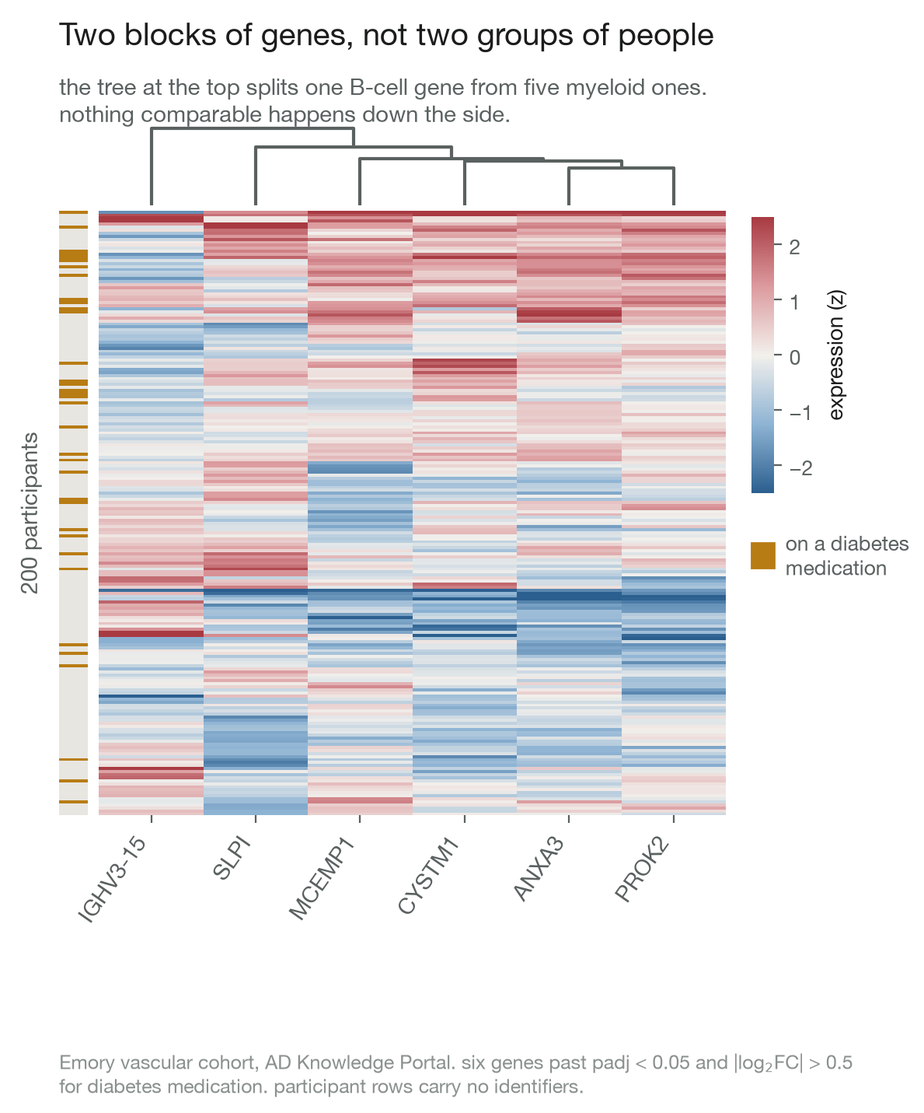
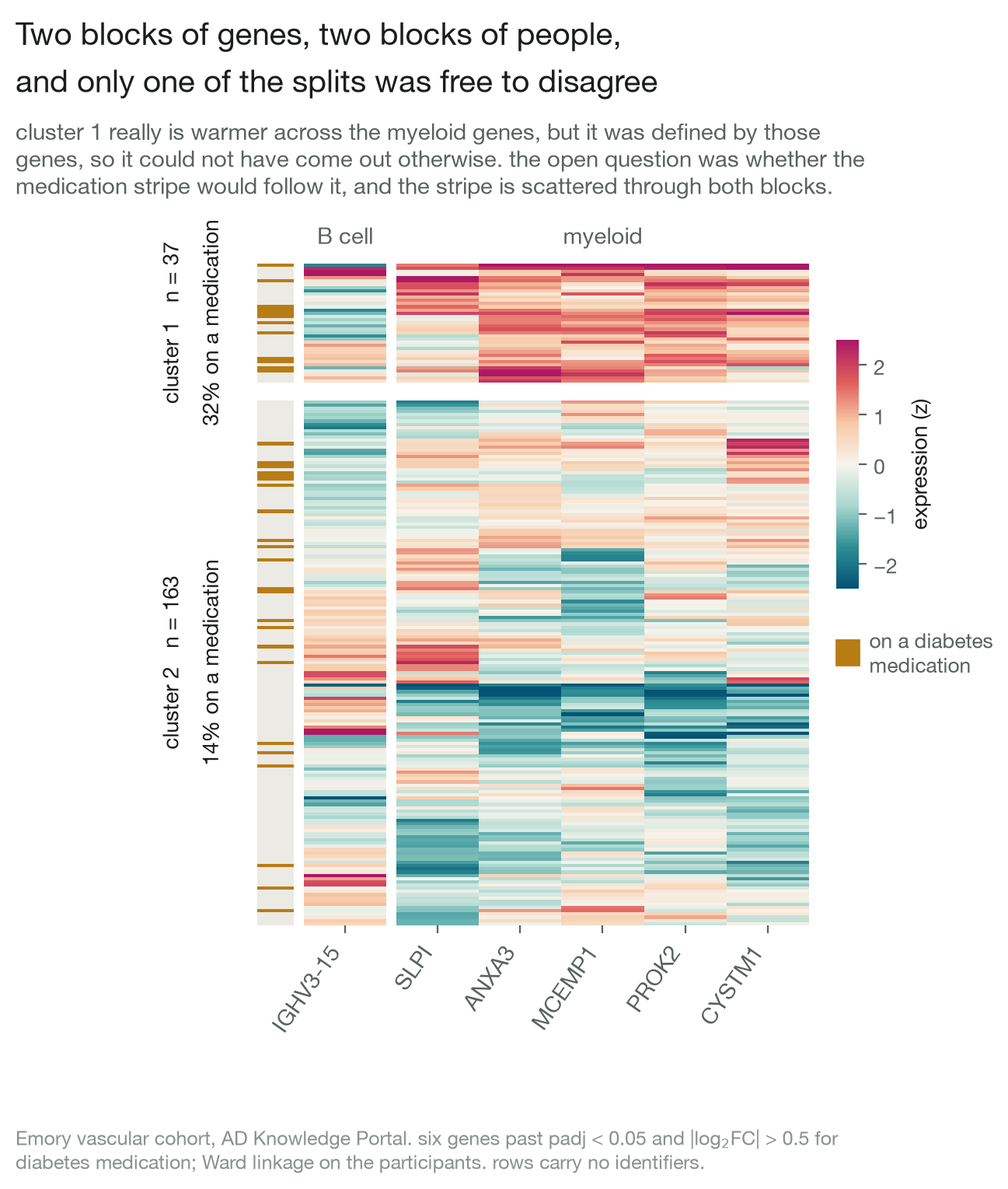
Emory: rebuild the heatmap, and put a number on the circularity
Heatmap: the shared figstyle DIV ramp, the same one the sweetspace
correlation heatmap uses, instead of RdYlBu_r. The two participant clusters
and the two gene blocks are now drawn as separate blocks with a gap and a
label, so the structure is visible without reading a dendrogram. Corrected
the subtitle: cluster 1 IS warmer across the myeloid genes, it just could not
have come out otherwise, having been defined by them.

Circularity, measured rather than asserted: 400 runs of pure noise, 200 fake
participants, a coin-flip label, then select six genes on that label ->
cluster -> cut in two -> Fisher test the same label. 80% of runs return
p < 0.05 and 70% reach the 0.015 this cohort produced. Selecting the six
genes at random instead returns 3%. The cohort's clustering p-value carries
no information.

diff --git a/projects/emory-vascular.html b/projects/emory-vascular.html
@@ -23,15 +23,15 @@
   <dl class="spec"><div><dt>skills</dt><dd>differential expression on a clinical cohort · hierarchical clustering and how to read a dendrogram · circular analysis · cell-composition confounding in bulk RNA · annotating a hit list back to cell type</dd></div><div><dt>tools</dt><dd><ul class="tags"><li>Python</li><li>PyDESeq2</li><li>scipy hierarchical clustering</li><li>scanpy</li><li>gseapy</li><li>UniProt REST</li><li>matplotlib</li></ul></dd></div><div><dt>data</dt><dd>Emory vascular ageing cohort via the AD Knowledge Portal: 200 adults with whole-blood RNA-seq, clinical assessment and a medication list · a public eight-sample senescence experiment, four control and four replicatively senescent, run through the same pipeline as a reference</dd></div><div><dt>status</dt><dd><span class="status status-finished">finished</span></dd></div></dl>
   
   <div class="row"><div class="margin-note">question</div><div class="row-body"><p>Vascular disease, diabetes and Alzheimer&#x27;s run together, and whole-blood RNA is the cheapest place to look for the thread. If the people on diabetes medication have a different blood transcriptome, is that vascular biology, or is it something duller?</p></div></div>
-  <div class="figs"><figure class="fig"><div class="panel"><a class="zoom" href="../assets/fig/emory/clusters.png"><img src="../assets/fig/emory/clusters.png" alt="the clustering, remade. the tree across the top splits the six genes into two blocks, one B-cell gene against five myeloid ones. the 200 participant rows underneath, ordered by their own tree, show no matching block. the stripe on the left marks who is on a diabetes medication." loading="lazy" decoding="async"></a></div><figcaption class="margin-note">the clustering, remade. the tree across the top splits the six genes into two blocks, one B-cell gene against five myeloid ones. the 200 participant rows underneath, ordered by their own tree, show no matching block. the stripe on the left marks who is on a diabetes medication.</figcaption></figure><figure class="fig"><div class="panel"><a class="zoom" href="../assets/fig/emory/separation.png"><img src="../assets/fig/emory/separation.png" alt="what that participant split is worth. cutting the tree in two does enrich for medication, 2.3-fold at Fisher p = 0.015, and still misses two thirds of the people on medication while two thirds of the enriched cluster is on nothing." loading="lazy" decoding="async"></a></div><figcaption class="margin-note">what that participant split is worth. cutting the tree in two does enrich for medication, 2.3-fold at Fisher p = 0.015, and still misses two thirds of the people on medication while two thirds of the enriched cluster is on nothing.</figcaption></figure><figure class="fig"><div class="panel"><a class="zoom" href="../assets/fig/emory/genes.png"><img src="../assets/fig/emory/genes.png" alt="the six genes with what each one is. five neutrophil and myeloid genes up, one B-cell immunoglobulin gene down, which is the shape of a change in blood cell proportions rather than a disease programme." loading="lazy" decoding="async"></a></div><figcaption class="margin-note">the six genes with what each one is. five neutrophil and myeloid genes up, one B-cell immunoglobulin gene down, which is the shape of a change in blood cell proportions rather than a disease programme.</figcaption></figure><figure class="fig"><div class="panel"><a class="zoom" href="../assets/fig/emory/immune-axis.png"><img src="../assets/fig/emory/immune-axis.png" alt="the check that matters. the six significant genes were five myeloid up and one B-cell down; running enrichment over all 13,994 genes, with nothing selected in advance, puts neutrophil granule products up and the B-cell compartment down." loading="lazy" decoding="async"></a></div><figcaption class="margin-note">the check that matters. the six significant genes were five myeloid up and one B-cell down; running enrichment over all 13,994 genes, with nothing selected in advance, puts neutrophil granule products up and the B-cell compartment down.</figcaption></figure><figure class="fig"><div class="panel"><a class="zoom" href="../assets/fig/emory/pathways.png"><img src="../assets/fig/emory/pathways.png" alt="the whole enrichment result, which is dominated by something else: protein synthesis up and nuclear RNA export down. in bulk blood that pattern usually reflects library composition or RNA quality, so it is read as a caution about the samples. the two antimicrobial sets are the part that speaks to the gene-level story." loading="lazy" decoding="async"></a></div><figcaption class="margin-note">the whole enrichment result, which is dominated by something else: protein synthesis up and nuclear RNA export down. in bulk blood that pattern usually reflects library composition or RNA quality, so it is read as a caution about the samples. the two antimicrobial sets are the part that speaks to the gene-level story.</figcaption></figure><figure class="fig"><div class="panel"><a class="zoom" href="../assets/fig/emory/waterfall-emory.png"><img src="../assets/fig/emory/waterfall-emory.png" alt="the strongest single set, drawn so the one comparison it is making is visible. top, the running enrichment score with the leading edge shaded and the peak marked. bottom, every gene ranked by its test statistic, filled red where it is higher on medication and blue where it is lower, with each set member as a tick above. the ticks bunch at the left, which is what enrichment means." loading="lazy" decoding="async"></a></div><figcaption class="margin-note">the strongest single set, drawn so the one comparison it is making is visible. top, the running enrichment score with the leading edge shaded and the peak marked. bottom, every gene ranked by its test statistic, filled red where it is higher on medication and blue where it is lower, with each set member as a tick above. the ticks bunch at the left, which is what enrichment means.</figcaption></figure><figure class="fig"><div class="panel"><a class="zoom" href="../assets/fig/emory/senescence-panel.png"><img src="../assets/fig/emory/senescence-panel.png" alt="the reference, from the notebook as saved. nine senescence genes across four control and four replicatively senescent samples, and the sample tree splits them perfectly. this is a different, public, eight-sample dataset, not the Emory cohort." loading="lazy" decoding="async"></a></div><figcaption class="margin-note">the reference, from the notebook as saved. nine senescence genes across four control and four replicatively senescent samples, and the sample tree splits them perfectly. this is a different, public, eight-sample dataset, not the Emory cohort.</figcaption></figure><figure class="fig"><div class="panel"><a class="zoom" href="../assets/fig/emory/volcano.png"><img src="../assets/fig/emory/volcano.png" alt="the volcano from that same reference dataset, with the senescence markers labelled: SERPINE1, CDKN2A, LMNB1 down, GDF15 and CCL5 up. saved notebook output." loading="lazy" decoding="async"></a></div><figcaption class="margin-note">the volcano from that same reference dataset, with the senescence markers labelled: SERPINE1, CDKN2A, LMNB1 down, GDF15 and CCL5 up. saved notebook output.</figcaption></figure><figure class="fig"><div class="panel"><a class="zoom" href="../assets/fig/emory/waterfall.png"><img src="../assets/fig/emory/waterfall.png" alt="the notebook&#x27;s original waterfall, kept as saved output. it is the same kind of plot as the one above but computed on the eight-sample reference dataset, not on Emory: gene-set enrichment for mitotic spindle organisation, strongly down in senescent cells at NES -3.18. shown because it is what the notebook actually had." loading="lazy" decoding="async"></a></div><figcaption class="margin-note">the notebook&#x27;s original waterfall, kept as saved output. it is the same kind of plot as the one above but computed on the eight-sample reference dataset, not on Emory: gene-set enrichment for mitotic spindle organisation, strongly down in senescent cells at NES -3.18. shown because it is what the notebook actually had.</figcaption></figure></div>
-  <div class="row"><div class="margin-note">what i did</div><div class="row-body"><ul><li>ran PyDESeq2 across the cohort with one design factor, whether the participant is on a diabetes medication, and kept the genes past padj &lt; 0.05 and |log2 fold change| &gt; 0.5. Six survived.</li><li>clustered those six genes and all 200 participants hierarchically, which is where the two blocks everyone remembers come from.</li><li>cut the participant tree in two and asked, with a Fisher exact test, whether the split sorts people by medication.</li><li>looked all six genes up in UniProt and asked which cell makes each one.</li><li>ran the same differential-expression, volcano and gene-set pipeline on a small public senescence experiment, as a reference for what a clean two-group separation looks like.</li><li>ranked all 13,994 expressed genes by their DESeq2 statistic and ran gene-set enrichment over 2,245 GO biological processes, which the original notebook only ever did on the other, eight-sample dataset.</li></ul></div></div>
+  <div class="figs"><figure class="fig"><div class="panel"><a class="zoom" href="../assets/fig/emory/clusters.png"><img src="../assets/fig/emory/clusters.png" alt="the clustering, rebuilt with the two participant blocks drawn apart. cluster 1 really is warmer across the myeloid genes, but it was defined by those genes, so it could not have come out otherwise. the open question was whether the medication stripe down the left would follow the split, and it is scattered through both blocks." loading="lazy" decoding="async"></a></div><figcaption class="margin-note">the clustering, rebuilt with the two participant blocks drawn apart. cluster 1 really is warmer across the myeloid genes, but it was defined by those genes, so it could not have come out otherwise. the open question was whether the medication stripe down the left would follow the split, and it is scattered through both blocks.</figcaption></figure><figure class="fig"><div class="panel"><a class="zoom" href="../assets/fig/emory/separation.png"><img src="../assets/fig/emory/separation.png" alt="what that participant split is worth. cutting the tree in two does enrich for medication, 2.3-fold at Fisher p = 0.015, and still misses two thirds of the people on medication while two thirds of the enriched cluster is on nothing." loading="lazy" decoding="async"></a></div><figcaption class="margin-note">what that participant split is worth. cutting the tree in two does enrich for medication, 2.3-fold at Fisher p = 0.015, and still misses two thirds of the people on medication while two thirds of the enriched cluster is on nothing.</figcaption></figure><figure class="fig"><div class="panel"><a class="zoom" href="../assets/fig/emory/circularity.png"><img src="../assets/fig/emory/circularity.png" alt="the same workflow run on data with nothing in it. 400 rounds of pure noise with a coin-flip label: select six genes on that label, cluster, cut the tree in two, test the same label. 80 percent of rounds come out significant. picking the six genes at random instead gives 3 percent, which is roughly what a correct test should give." loading="lazy" decoding="async"></a></div><figcaption class="margin-note">the same workflow run on data with nothing in it. 400 rounds of pure noise with a coin-flip label: select six genes on that label, cluster, cut the tree in two, test the same label. 80 percent of rounds come out significant. picking the six genes at random instead gives 3 percent, which is roughly what a correct test should give.</figcaption></figure><figure class="fig"><div class="panel"><a class="zoom" href="../assets/fig/emory/genes.png"><img src="../assets/fig/emory/genes.png" alt="the six genes with what each one is. five neutrophil and myeloid genes up, one B-cell immunoglobulin gene down, which is the shape of a change in blood cell proportions rather than a disease programme." loading="lazy" decoding="async"></a></div><figcaption class="margin-note">the six genes with what each one is. five neutrophil and myeloid genes up, one B-cell immunoglobulin gene down, which is the shape of a change in blood cell proportions rather than a disease programme.</figcaption></figure><figure class="fig"><div class="panel"><a class="zoom" href="../assets/fig/emory/immune-axis.png"><img src="../assets/fig/emory/immune-axis.png" alt="the check that matters. the six significant genes were five myeloid up and one B-cell down; running enrichment over all 13,994 genes, with nothing selected in advance, puts neutrophil granule products up and the B-cell compartment down." loading="lazy" decoding="async"></a></div><figcaption class="margin-note">the check that matters. the six significant genes were five myeloid up and one B-cell down; running enrichment over all 13,994 genes, with nothing selected in advance, puts neutrophil granule products up and the B-cell compartment down.</figcaption></figure><figure class="fig"><div class="panel"><a class="zoom" href="../assets/fig/emory/pathways.png"><img src="../assets/fig/emory/pathways.png" alt="the whole enrichment result, which is dominated by something else: protein synthesis up and nuclear RNA export down. in bulk blood that pattern usually reflects library composition or RNA quality, so it is read as a caution about the samples. the two antimicrobial sets are the part that speaks to the gene-level story." loading="lazy" decoding="async"></a></div><figcaption class="margin-note">the whole enrichment result, which is dominated by something else: protein synthesis up and nuclear RNA export down. in bulk blood that pattern usually reflects library composition or RNA quality, so it is read as a caution about the samples. the two antimicrobial sets are the part that speaks to the gene-level story.</figcaption></figure><figure class="fig"><div class="panel"><a class="zoom" href="../assets/fig/emory/waterfall-emory.png"><img src="../assets/fig/emory/waterfall-emory.png" alt="the strongest single set, drawn so the one comparison it is making is visible. top, the running enrichment score with the leading edge shaded and the peak marked. bottom, every gene ranked by its test statistic, filled red where it is higher on medication and blue where it is lower, with each set member as a tick above. the ticks bunch at the left, which is what enrichment means." loading="lazy" decoding="async"></a></div><figcaption class="margin-note">the strongest single set, drawn so the one comparison it is making is visible. top, the running enrichment score with the leading edge shaded and the peak marked. bottom, every gene ranked by its test statistic, filled red where it is higher on medication and blue where it is lower, with each set member as a tick above. the ticks bunch at the left, which is what enrichment means.</figcaption></figure><figure class="fig"><div class="panel"><a class="zoom" href="../assets/fig/emory/senescence-panel.png"><img src="../assets/fig/emory/senescence-panel.png" alt="the reference, from the notebook as saved. nine senescence genes across four control and four replicatively senescent samples, and the sample tree splits them perfectly. this is a different, public, eight-sample dataset, not the Emory cohort." loading="lazy" decoding="async"></a></div><figcaption class="margin-note">the reference, from the notebook as saved. nine senescence genes across four control and four replicatively senescent samples, and the sample tree splits them perfectly. this is a different, public, eight-sample dataset, not the Emory cohort.</figcaption></figure><figure class="fig"><div class="panel"><a class="zoom" href="../assets/fig/emory/volcano.png"><img src="../assets/fig/emory/volcano.png" alt="the volcano from that same reference dataset, with the senescence markers labelled: SERPINE1, CDKN2A, LMNB1 down, GDF15 and CCL5 up. saved notebook output." loading="lazy" decoding="async"></a></div><figcaption class="margin-note">the volcano from that same reference dataset, with the senescence markers labelled: SERPINE1, CDKN2A, LMNB1 down, GDF15 and CCL5 up. saved notebook output.</figcaption></figure><figure class="fig"><div class="panel"><a class="zoom" href="../assets/fig/emory/waterfall.png"><img src="../assets/fig/emory/waterfall.png" alt="the notebook&#x27;s original waterfall, kept as saved output. it is the same kind of plot as the one above but computed on the eight-sample reference dataset, not on Emory: gene-set enrichment for mitotic spindle organisation, strongly down in senescent cells at NES -3.18. shown because it is what the notebook actually had." loading="lazy" decoding="async"></a></div><figcaption class="margin-note">the notebook&#x27;s original waterfall, kept as saved output. it is the same kind of plot as the one above but computed on the eight-sample reference dataset, not on Emory: gene-set enrichment for mitotic spindle organisation, strongly down in senescent cells at NES -3.18. shown because it is what the notebook actually had.</figcaption></figure></div>
+  <div class="row"><div class="margin-note">what i did</div><div class="row-body"><ul><li>ran PyDESeq2 across the cohort with one design factor, whether the participant is on a diabetes medication, and kept the genes past padj &lt; 0.05 and |log2 fold change| &gt; 0.5. Six survived.</li><li>clustered those six genes and all 200 participants hierarchically, which is where the two blocks everyone remembers come from.</li><li>cut the participant tree in two and asked, with a Fisher exact test, whether the split sorts people by medication.</li><li>looked all six genes up in UniProt and asked which cell makes each one.</li><li>ran the same differential-expression, volcano and gene-set pipeline on a small public senescence experiment, as a reference for what a clean two-group separation looks like.</li><li>ranked all 13,994 expressed genes by their DESeq2 statistic and ran gene-set enrichment over 2,245 GO biological processes, which the original notebook only ever did on the other, eight-sample dataset.</li><li>tested the clustering workflow itself on data with nothing in it: 400 runs of pure noise, 200 fake participants, a label assigned by coin flip, then the same select-cluster-cut-test sequence.</li></ul></div></div>
   
   
-  <div class="row"><div class="margin-note">what came out</div><div class="row-body"><ul><li>the gene tree does split in two, but not the way the story wanted. One arm is a single B-cell immunoglobulin gene, IGHV3-15, going down. The other arm is five genes going up: SLPI, ANXA3, MCEMP1, PROK2 and CYSTM1.</li><li>every one of those five is a neutrophil or myeloid gene. SLPI and ANXA3 are neutrophil granule proteins, MCEMP1 is a myeloid activation marker, PROK2 is the neutrophil-derived factor also called Bv8. Up on the myeloid side, down on the B-cell side, is what a shift in blood cell proportions looks like, not what a tissue disease process looks like.</li><li>cutting the participant tree in two gives a 37-person cluster and a 163-person cluster. The small one is 32 percent on medication against 14 percent in the large one, a 2.3-fold enrichment at Fisher p = 0.015.</li><li>that significance is worth almost nothing. The cluster catches 12 of the 35 people on medication and 25 of its own 37 members are on nothing. As a classifier it is close to useless.</li><li>worse, the test is circular. The six genes were chosen because they differ by medication status, so clustering on them and then testing medication status is asking the data to confirm the selection. The honest version of this p-value needs a held-out gene set or a held-out cohort, and neither exists here.</li><li>the eight-sample senescence experiment, through the identical pipeline, splits its four control and four senescent samples perfectly on nine senescence genes. That contrast is the finding: the controlled experiment separates, the clinic cohort does not.</li><li>gene-set enrichment reproduces the cell-composition reading without being told to. Antimicrobial peptide response and antibacterial humoral response, which are neutrophil granule products, come out positively enriched at FDR 0.002 and 0.004. B cell activation and lymphocyte differentiation come out negatively enriched at FDR 0.031 and 0.044. That is the same myeloid-up, B-cell-down axis as the six genes, found a second way across the whole transcriptome with no gene selection in between.</li><li>it is not the strongest axis though. 116 of the 2,245 processes pass FDR &lt; 0.05, and the largest scores belong to protein synthesis going up, led by cytoplasmic translation at NES 2.88, against nuclear RNA export going down at NES -2.60. Ribosomal and RNA-handling genes are the first thing to move whenever bulk libraries differ in composition or RNA quality, so that axis is a caution about the samples rather than a finding about diabetes.</li></ul></div></div>
+  <div class="row"><div class="margin-note">what came out</div><div class="row-body"><ul><li>the gene tree does split in two, but not the way the story wanted. One arm is a single B-cell immunoglobulin gene, IGHV3-15, going down. The other arm is five genes going up: SLPI, ANXA3, MCEMP1, PROK2 and CYSTM1.</li><li>every one of those five is a neutrophil or myeloid gene. SLPI and ANXA3 are neutrophil granule proteins, MCEMP1 is a myeloid activation marker, PROK2 is the neutrophil-derived factor also called Bv8. Up on the myeloid side, down on the B-cell side, is what a shift in blood cell proportions looks like, not what a tissue disease process looks like.</li><li>cutting the participant tree in two gives a 37-person cluster and a 163-person cluster. The small one is 32 percent on medication against 14 percent in the large one, a 2.3-fold enrichment at Fisher p = 0.015.</li><li>that significance is worth almost nothing. The cluster catches 12 of the 35 people on medication and 25 of its own 37 members are on nothing. As a classifier it is close to useless.</li><li>worse, the test is circular. The six genes were chosen because they differ by medication status, so clustering on them and then testing medication status is asking the data to confirm the selection. The honest version of this p-value needs a held-out gene set or a held-out cohort, and neither exists here.</li><li>the eight-sample senescence experiment, through the identical pipeline, splits its four control and four senescent samples perfectly on nine senescence genes. That contrast is the finding: the controlled experiment separates, the clinic cohort does not.</li><li>gene-set enrichment reproduces the cell-composition reading without being told to. Antimicrobial peptide response and antibacterial humoral response, which are neutrophil granule products, come out positively enriched at FDR 0.002 and 0.004. B cell activation and lymphocyte differentiation come out negatively enriched at FDR 0.031 and 0.044. That is the same myeloid-up, B-cell-down axis as the six genes, found a second way across the whole transcriptome with no gene selection in between.</li><li>it is not the strongest axis though. 116 of the 2,245 processes pass FDR &lt; 0.05, and the largest scores belong to protein synthesis going up, led by cytoplasmic translation at NES 2.88, against nuclear RNA export going down at NES -2.60. Ribosomal and RNA-handling genes are the first thing to move whenever bulk libraries differ in composition or RNA quality, so that axis is a caution about the samples rather than a finding about diabetes.</li><li>the workflow manufactures significance. On pure noise, where the true association is zero by construction, picking six genes on the label and then testing that label against the cluster split returns p &lt; 0.05 in 80 percent of runs, and reaches Emory&#x27;s own p of 0.015 in 70 percent. Picking the six genes at random instead returns 3 percent, which is what a correct test looks like. The clustering p-value from this cohort carries no information at all; a coin flip would have produced it.</li></ul></div></div>
   <div class="row"><div class="margin-note">calls made</div><div class="row-body"><ul><li>diabetes medication rather than a diabetes diagnosis as the design factor, because the medication column was complete and the diagnosis column was not. It also makes the result directly comparable with the DiCAD proteomics on this site, which asks the mirror-image question.</li><li>Ward linkage for the participant tree. Average linkage, which is what the notebook used and what seaborn defaults to, puts 199 of the 200 participants in one cluster and leaves a single person alone, which is a true answer to a useless question.</li><li>reporting the classifier numbers next to the p-value. The enrichment is real and the p-value is correct arithmetic; both are misleading on their own.</li><li>leaving the senescence half in as a reference rather than dropping it. It is the only thing in the notebook that shows what a clean separation looks like, which is what makes the human result legible.</li><li>running the enrichment on this cohort rather than recolouring the notebook&#x27;s existing one. That figure came from the eight-sample senescence dataset and said nothing about Emory, so it could not corroborate or contradict anything on this page.</li></ul></div></div>
   <div class="row"><div class="margin-note">what broke</div><div class="row-body"><ul><li>the original clustering was run on genes selected by the same variable it was then read against, and no test was run on the split at all, only a look at the picture. Reading cluster structure off a heatmap built from pre-selected features is how an analysis convinces itself.</li><li>a second notebook called `emory_heatmaps_updated` was supposed to carry the figures forward. Its outputs are byte-identical copies of the first notebook&#x27;s, and the two medication-annotated clustermaps that mattered are missing from it entirely. The update dropped the only figures with the clinical annotation on them.</li></ul></div></div>
   <div class="row"><div class="margin-note">what i tried</div><div class="row-body"><p>the point of the analysis was to find a vascular thread between diabetes and Alzheimer&#x27;s biology, and for a while the two blocks in the heatmap looked like it. Annotating the six genes was what ended that reading: once five of them turn out to be neutrophil genes, the signature has a much more boring and much more likely explanation, and the interesting question moves to why nobody checks that first.</p></div></div>
-  <div class="row"><div class="margin-note">so what</div><div class="row-body"><ul><li>a bulk-blood signature is a weighted average over cell types before it is anything else. Whenever a hit list reads as neutrophil granule proteins, the first hypothesis is that the groups differ in neutrophil fraction, and the differential expression is a complete blood count in an expensive disguise.</li><li>that is not a nuisance to be removed here, it is a real and known association: raised neutrophil-to-lymphocyte ratio tracks with diabetes and vascular disease. The error is only in calling it a transcriptional programme.</li><li>the cell-composition hypothesis earns its keep here because two independent routes agree. Six hand-picked genes and an unsupervised scan of 13,994 say the same thing about which cells are present. A hypothesis that only one of those supports is a guess.</li><li>the methodological trap is sharper than the biology. Selecting features on a label and then testing that label with clustering will produce a significant result on data with no signal at all, and it produced one here. Any clustering p-value needs to say what was held out.</li><li>and a dendrogram will always draw two clusters. Whether they mean anything is a separate question with a separate test, which is the one step this analysis did not originally take.</li></ul></div></div>
+  <div class="row"><div class="margin-note">so what</div><div class="row-body"><ul><li>a bulk-blood signature is a weighted average over cell types before it is anything else. Whenever a hit list reads as neutrophil granule proteins, the first hypothesis is that the groups differ in neutrophil fraction, and the differential expression is a complete blood count in an expensive disguise.</li><li>that is not a nuisance to be removed here, it is a real and known association: raised neutrophil-to-lymphocyte ratio tracks with diabetes and vascular disease. The error is only in calling it a transcriptional programme.</li><li>the cell-composition hypothesis earns its keep here because two independent routes agree. Six hand-picked genes and an unsupervised scan of 13,994 say the same thing about which cells are present. A hypothesis that only one of those supports is a guess.</li><li>and a dendrogram will always draw two clusters. Whether they mean anything is a separate question with a separate test, and the obvious test is the wrong one: 400 runs of noise show the select-then-test sequence calling nothing significant four times in five. Any clustering p-value needs to say what was held out, and if the answer is nothing, the number should not be reported.</li><li>and a dendrogram will always draw two clusters. Whether they mean anything is a separate question with a separate test, which is the one step this analysis did not originally take.</li></ul></div></div>
   <div class="row"><div class="margin-note">not shown</div><div class="row-body"><ul><li>cell-type deconvolution. Two separate analyses now point at blood cell proportions, and neither measures them. Estimating neutrophil and lymphocyte fractions from the same bulk counts and adding them to the model is the test that would settle it. Not done.</li><li>the senescence half cannot be re-run. Its count table and the senescence gene list it used are both gone from disk, so those three figures are the saved notebook outputs as they were, not regenerated.</li><li>cognitive and vascular outcomes. The cohort carries them. Nothing here is linked to them yet.</li><li>no participant-level data. The heatmap rows carry no identifiers and every other number on this page is an aggregate.</li></ul></div></div>
   <section class="ack"><span class="margin-note">data use</span><p>Data used here were obtained from the AD Knowledge Portal (adknowledgeportal.synapse.org). The results published here are in whole or in part based on data obtained from the AD Knowledge Portal. The author thanks the study investigators and participants.</p></section>
 </main>

diff --git a/index.html b/index.html
@@ -194,7 +194,7 @@
     <ul class="tags"><li>Python</li><li>pandas</li><li>statsmodels</li><li>UniProt REST</li></ul>
   </div>
 </a><a class="tile" href="projects/emory-vascular.html">
-  <div class="panel"><img src="assets/fig/emory/clusters.png" alt="the clustering, remade. the tree across the top splits the six genes into two blocks, one B-cell gene against five myeloid ones. the 200 participant rows underneath, ordered by their own tree, show no matching block. the stripe on the left marks who is on a diabetes medication." loading="lazy" decoding="async"></div>
+  <div class="panel"><img src="assets/fig/emory/clusters.png" alt="the clustering, rebuilt with the two participant blocks drawn apart. cluster 1 really is warmer across the myeloid genes, but it was defined by those genes, so it could not have come out otherwise. the open question was whether the medication stripe down the left would follow the split, and it is scattered through both blocks." loading="lazy" decoding="async"></div>
   <div class="tile-body">
     <div class="tile-top"><h3>What a blood signature of diabetes medication is actually made of</h3><span class="status status-finished">finished</span></div>
     <p class="skills">differential expression on a clinical cohort · hierarchical clustering and how to read a dendrogram · circular analysis · cell-composition confounding in bulk RNA</p>

diff --git a/scripts/build_emory_clusters.py b/scripts/build_emory_clusters.py
@@ -1,0 +1,100 @@
+"""The Emory clustermap, rebuilt so the groups are visually separate.
+
+Changes from the seaborn original and from my first remake:
+  - the shared figstyle DIV ramp (teal / cream / magenta), the same one the
+    sweetspace correlation heatmap uses, instead of RdYlBu_r or a custom blue-red
+  - the two participant clusters drawn as two blocks with a real gap and a label,
+    instead of one continuous panel you have to read a dendrogram to parse
+  - the two gene blocks likewise split, so the B-cell gene is visibly apart
+"""
+import json, numpy as np, pandas as pd
+import matplotlib; matplotlib.use("Agg")
+import matplotlib.pyplot as plt
+from matplotlib.colors import LinearSegmentedColormap
+from matplotlib.patches import Rectangle
+from scipy.cluster.hierarchy import linkage, dendrogram, fcluster
+
+D   = "/Users/dominiero/bioinfo/Emory_Vascular/"
+OUT = "/Users/dominiero/Documents/GitHub/dom-martinelli.github.io/assets/fig/emory/"
+HUE  = ["#3D7BB8", "#C4545C", "#00918A", "#B87C14", "#7B62A8"]
+INK, SOFT, FAINT, GRID = "#1A1D1C", "#5A6160", "#8A918D", "#E4E7E4"
+# figstyle's shared diverging ramp, as used by the sweetspace heatmap
+DIV = LinearSegmentedColormap.from_list(
+    "div", ["#045275", "#2F8F95", "#A9D8D0", "#F7F4EC", "#F7C9A6", "#E05C5C", "#AB1866"])
+plt.rcParams.update({
+    "font.size": 11, "axes.labelsize": 11, "xtick.labelsize": 10.5, "ytick.labelsize": 10.5,
+    "font.family": "sans-serif", "font.sans-serif": ["Helvetica Neue", "Helvetica", "Arial"],
+    "axes.edgecolor": FAINT, "axes.linewidth": 0.8, "text.color": INK,
+    "axes.labelcolor": INK, "xtick.color": SOFT, "ytick.color": SOFT,
+    "figure.facecolor": "white", "savefig.facecolor": "white", "savefig.dpi": 200})
+
+SYM = {"ENSG00000211943":"IGHV3-15","ENSG00000120306":"CYSTM1","ENSG00000163421":"PROK2",
+       "ENSG00000124107":"SLPI","ENSG00000138772":"ANXA3","ENSG00000183019":"MCEMP1"}
+g = pd.read_csv(D+"DESeq2_sigs.csv", index_col=0); g.index = [SYM[i] for i in g.index]
+md = pd.read_csv(D+"Clinical/Modified_Emory_Clinical_Data.csv")
+md = md[md.individualID.isin(g.columns)].set_index("individualID")
+md = md[~md.index.duplicated()]
+cols = [c for c in g.columns if c in md.index]
+g, md = g[cols], md.loc[cols]
+dm = md["diabeticmed"].astype(int)
+X = g.T; Z = (X - X.mean()) / X.std()
+
+Ls = linkage(Z, method="ward", metric="euclidean")
+ks = fcluster(Ls, 2, criterion="maxclust")
+leaf = dendrogram(Ls, no_plot=True)["leaves"]
+# keep dendrogram order, but split into the two clusters
+blocks = [[i for i in leaf if ks[i] == k] for k in (1, 2)]
+blocks.sort(key=len)                                  # small block on top
+GENES = [["IGHV3-15"], ["SLPI", "ANXA3", "MCEMP1", "PROK2", "CYSTM1"]]
+
+fig = plt.figure(figsize=(6.9, 7.6))
+gs = fig.add_gridspec(2, 3, height_ratios=[len(blocks[0]), len(blocks[1])],
+                      width_ratios=[0.45, 1, 5], hspace=0.055, wspace=0.055,
+                      left=0.26, right=0.775, top=0.775, bottom=0.215)
+VM = 2.5
+for bi, rows in enumerate(blocks):
+    sub = Z.iloc[rows]
+    ax_s = fig.add_subplot(gs[bi, 0])
+    ax_s.imshow(dm.iloc[rows].values.reshape(-1, 1), aspect="auto", vmin=0, vmax=1,
+                interpolation="nearest",
+                cmap=LinearSegmentedColormap.from_list("s", ["#ECEAE4", HUE[3]]))
+    ax_s.set_xticks([]); ax_s.set_yticks([])
+    for sp in ax_s.spines.values(): sp.set_visible(False)
+    rate = dm.iloc[rows].mean()
+    ax_s.set_ylabel(f"cluster {bi+1}   n = {len(rows)}\n{rate:.0%} on a medication",
+                    fontsize=10, color=INK, labelpad=12, linespacing=1.6)
+    for gi, genes in enumerate(GENES):
+        ax = fig.add_subplot(gs[bi, gi + 1])
+        im = ax.imshow(sub[genes].values, aspect="auto", cmap=DIV, vmin=-VM, vmax=VM,
+                       interpolation="nearest")
+        ax.set_yticks([])
+        for sp in ax.spines.values(): sp.set_visible(False)
+        if bi == len(blocks) - 1:
+            ax.set_xticks(range(len(genes)))
+            ax.set_xticklabels(genes, rotation=55, ha="right")
+        else:
+            ax.set_xticks([])
+            ax.set_title("B cell" if gi == 0 else "myeloid", fontsize=10.5,
+                         color=SOFT, pad=9)
+
+cax = fig.add_axes([0.80, 0.50, 0.021, 0.21])
+cb = fig.colorbar(im, cax=cax); cb.set_label("expression (z)", fontsize=10)
+cb.outline.set_visible(False); cb.ax.tick_params(labelsize=9.5)
+fig.add_artist(Rectangle((0.80, 0.435), 0.021, 0.021, color=HUE[3], transform=fig.transFigure))
+fig.text(0.831, 0.4455, "on a diabetes\nmedication", fontsize=9.5, color=SOFT, va="center")
+
+fig.text(0.035, 0.985, "Two blocks of genes, two blocks of people,", fontsize=14.5, va="top")
+fig.text(0.035, 0.945, "and only one of the splits was free to disagree", fontsize=14.5, va="top")
+fig.text(0.035, 0.898,
+         "cluster 1 really is warmer across the myeloid genes, but it was defined by those\n"
+         "genes, so it could not have come out otherwise. the open question was whether the\n"
+         "medication stripe would follow it, and the stripe is scattered through both blocks.",
+         fontsize=10.5, color=SOFT, va="top")
+fig.text(0.035, 0.005,
+         "Emory vascular cohort, AD Knowledge Portal. six genes past padj < 0.05 and "
+         "|log$_2$FC| > 0.5 for\ndiabetes medication; Ward linkage on the participants. "
+         "rows carry no identifiers.",
+         fontsize=9, color=FAINT, va="bottom")
+fig.savefig(OUT + "clusters.png", bbox_inches="tight")
+print("cluster sizes", [len(b) for b in blocks],
+      "rates", [round(dm.iloc[b].mean(), 3) for b in blocks])

diff --git a/scripts/build_emory_circularity.py b/scripts/build_emory_circularity.py
@@ -1,0 +1,83 @@
+"""Does the clustermap workflow manufacture significance on pure noise?
+
+Emory's shape: 200 participants, 17.5% on a medication, ~14,000 genes.
+Here the label is assigned at random and the expression is pure noise, so the
+true answer is always "no association". Then run the standard workflow:
+  select genes that differ by the label  ->  cluster participants on those genes
+  ->  cut the tree in two  ->  Fisher test the cut against the same label.
+"""
+import numpy as np
+from scipy.cluster.hierarchy import linkage, fcluster
+from scipy.stats import ttest_ind, fisher_exact
+import pandas as pd
+
+rng = np.random.default_rng(7)
+N, G, RATE, TOPK, REPS = 200, 2000, 0.175, 6, 400
+hon, circ = [], []
+for _ in range(REPS):
+    X = rng.standard_normal((N, G))             # pure noise, no structure at all
+    y = (rng.random(N) < RATE).astype(int)      # label unrelated to X
+    t, p = ttest_ind(X[y == 1], X[y == 0], axis=0)
+    sel = np.argsort(p)[:TOPK]                  # the six "significant" genes
+
+    Z = (X[:, sel] - X[:, sel].mean(0)) / X[:, sel].std(0)
+    k = fcluster(linkage(Z, "ward"), 2, criterion="maxclust")
+    tab = pd.crosstab(k, y).values
+    if tab.shape == (2, 2):
+        circ.append(fisher_exact(tab)[1])
+
+    # the honest version: cluster on genes chosen without looking at the label
+    hon_sel = rng.choice(G, TOPK, replace=False)
+    Zh = (X[:, hon_sel] - X[:, hon_sel].mean(0)) / X[:, hon_sel].std(0)
+    kh = fcluster(linkage(Zh, "ward"), 2, criterion="maxclust")
+    tabh = pd.crosstab(kh, y).values
+    if tabh.shape == (2, 2):
+        hon.append(fisher_exact(tabh)[1])
+
+circ, hon = np.array(circ), np.array(hon)
+print(f"pure noise, {REPS} runs, true association is zero by construction\n")
+print(f"  select on the label, then test it : {(circ<.05).mean():6.1%} of runs give p < 0.05")
+print(f"  select genes at random instead    : {(hon<.05).mean():6.1%} of runs give p < 0.05")
+print(f"\n  a correct test should sit at 5.0%")
+print(f"  median p, circular: {np.median(circ):.3f}   honest: {np.median(hon):.3f}")
+print(f"  runs reaching p < 0.015 (Emory's value), circular: {(circ<.015).mean():.1%}")
+
+# ── figure ──────────────────────────────────────────────────────────────────
+import matplotlib; matplotlib.use("Agg")
+import matplotlib.pyplot as plt
+OUT = "/Users/dominiero/Documents/GitHub/dom-martinelli.github.io/assets/fig/emory/"
+HUE = ["#3D7BB8", "#C4545C"]
+INK, SOFT, FAINT, GRID = "#1A1D1C", "#5A6160", "#8A918D", "#E4E7E4"
+plt.rcParams.update({
+    "font.size": 11, "axes.labelsize": 11, "xtick.labelsize": 10.5, "ytick.labelsize": 10.5,
+    "font.family": "sans-serif", "font.sans-serif": ["Helvetica Neue", "Helvetica", "Arial"],
+    "axes.edgecolor": FAINT, "axes.linewidth": 0.8, "text.color": INK,
+    "axes.labelcolor": INK, "xtick.color": SOFT, "ytick.color": SOFT,
+    "figure.facecolor": "white", "savefig.facecolor": "white", "savefig.dpi": 200})
+
+fig, ax = plt.subplots(figsize=(7.2, 4.0))
+fig.subplots_adjust(top=0.70)
+bins = np.linspace(0, 1, 26)
+ax.hist(circ, bins=bins, color=HUE[1], alpha=0.85, label="genes picked using the label", zorder=3)
+ax.hist(hon, bins=bins, color=HUE[0], alpha=0.70, label="genes picked at random", zorder=2)
+ax.axvline(0.05, color=INK, lw=1.2, ls=(0, (4, 3)), zorder=5)
+ax.text(0.062, ax.get_ylim()[1] * 0.93, "p = 0.05", fontsize=10, color=INK, va="top")
+ax.axvline(0.015, color=SOFT, lw=1.0, zorder=5)
+ax.annotate("Emory's p = 0.015", xy=(0.015, ax.get_ylim()[1] * 0.52),
+            xytext=(0.18, ax.get_ylim()[1] * 0.62), fontsize=10, color=SOFT,
+            arrowprops=dict(arrowstyle="-", color=SOFT, lw=0.9))
+ax.set_xlabel("Fisher exact p for the cluster split against the label")
+ax.set_ylabel(f"runs (of {REPS})")
+for sp in ("top", "right"): ax.spines[sp].set_visible(False)
+ax.yaxis.grid(True, color=GRID, lw=0.8, zorder=0); ax.set_axisbelow(True)
+ax.legend(frameon=False, loc="upper right", bbox_to_anchor=(1.0, 0.88))
+fig.text(0.015, 1.30, "The same workflow on data with nothing in it",
+         transform=ax.transAxes, fontsize=13.5, va="bottom")
+fig.text(0.015, 1.02,
+         f"{REPS} runs of pure noise, 200 fake participants, a label assigned by coin flip.\n"
+         f"select six genes on that label, cluster, cut in two, test the same label:\n"
+         f"{(circ<.05).mean():.0%} of runs come out significant. pick the six genes at random "
+         f"instead and it is {(hon<.05).mean():.0%}.",
+         transform=ax.transAxes, fontsize=10.5, color=SOFT, va="bottom")
+fig.savefig(OUT + "circularity.png", bbox_inches="tight")
+print("wrote circularity.png")
